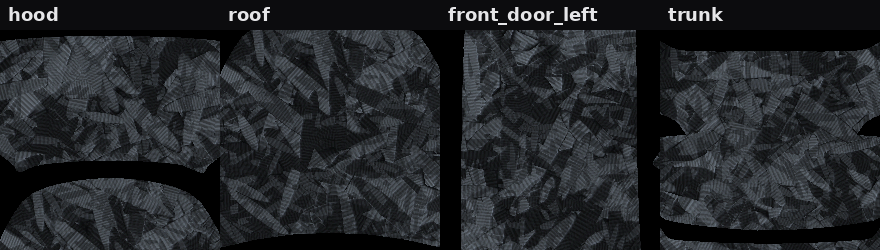
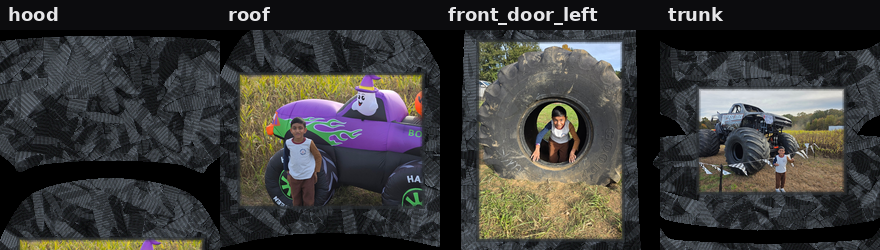
Composite the three supplied photographs into the carbon wrap
Place the tire photo on the left front door, the Halloween inflatable on the roof, and the monster truck on the trunk. The decals use those original files, and the rest of the template stays forged carbon.

diff --git a/designs/modely-2024-forged-carbon/generate_wrap.py b/designs/modely-2024-forged-carbon/generate_wrap.py
@@ -66,15 +66,26 @@ def build_wrap(enable_photos: bool = False, originals: Path | None = None) -> tu
     )
     if status["wrap_contains_photos"] != incorporated:
         raise RuntimeError("photo status does not match the image that was built")
-    coverage = coverage_report(template, rgba, panels)
+    coverage = coverage_report(template, rgba, panels, slots)
     return rgba, status, coverage
 
 
-def coverage_report(template: np.ndarray, rgba: np.ndarray, panels: dict[str, np.ndarray]) -> dict:
+def coverage_report(
+    template: np.ndarray,
+    rgba: np.ndarray,
+    panels: dict[str, np.ndarray],
+    slots: list[dict] | None = None,
+) -> dict:
     paintable = paintable_mask(template)
     rgb = rgba[:, :, :3]
     near_white = (rgb[:, :, 0] >= 250) & (rgb[:, :, 1] >= 250) & (rgb[:, :, 2] >= 250)
-    unfilled = paintable & near_white
+    photo_slots = np.zeros(paintable.shape, dtype=bool)
+    for slot in slots or []:
+        x0, y0, x1, y1 = slot["rect"]
+        photo_slots[y0:y1, x0:x1] = True
+    # Bright pixels inside a decal are part of the photograph. Unfilled means
+    # template white left on the carbon itself.
+    unfilled = paintable & near_white & ~photo_slots
     panel_rows = {}
     for name, mask in panels.items():
         panel_rows[name] = {
@@ -88,6 +99,7 @@ def coverage_report(template: np.ndarray, rgba: np.ndarray, panels: dict[str, np
         "size": [int(template.shape[1]), int(template.shape[0])],
         "paintable_pixels": int(paintable.sum()),
         "unfilled_white_pixels": int(unfilled.sum()),
+        "bright_pixels_inside_photo_slots": int((paintable & near_white & photo_slots).sum()),
         "transparent_pixels_cleared": int((rgba[:, :, 3] == 0).sum()),
         "max_channel": int(rgb.max()),
         "mean_paintable_rgb": [round(float(v), 2) for v in rgb[paintable].mean(axis=0)],
@@ -160,7 +172,13 @@ def _dashed_rect(draw: ImageDraw.ImageDraw, box: tuple[int, int, int, int], colo
     segments(y0, y1, False, x1)
 
 
-def write_previews(rgba: np.ndarray, panels: dict[str, np.ndarray], slots: list[dict], field_u8: np.ndarray) -> None:
+def write_previews(
+    rgba: np.ndarray,
+    panels: dict[str, np.ndarray],
+    slots: list[dict],
+    field_u8: np.ndarray,
+    photos_applied: bool,
+) -> None:
     PREVIEW_DIR.mkdir(parents=True, exist_ok=True)
     paintable = rgba[:, :, 3] > 0
     panel_rgb = np.zeros((rgba.shape[0], rgba.shape[1], 3), dtype=np.uint8)
@@ -179,7 +197,11 @@ def write_previews(rgba: np.ndarray, panels: dict[str, np.ndarray], slots: list[
     coverage = np.full((*paintable.shape, 3), 18, dtype=np.uint8)
     coverage[paintable] = (36, 150, 78)
     near_white = (rgba[:, :, 0] >= 250) & (rgba[:, :, 1] >= 250) & (rgba[:, :, 2] >= 250)
-    coverage[paintable & near_white] = (220, 48, 48)
+    photo_slots = np.zeros(paintable.shape, dtype=bool)
+    for slot in slots:
+        x0, y0, x1, y1 = slot["rect"]
+        photo_slots[y0:y1, x0:x1] = True
+    coverage[paintable & near_white & ~photo_slots] = (220, 48, 48)
     Image.fromarray(coverage, "RGB").save(PREVIEW_DIR / "coverage.png", optimize=True)
 
     crops = []
@@ -218,20 +240,58 @@ def write_previews(rgba: np.ndarray, panels: dict[str, np.ndarray], slots: list[
         x0, y0, x1, y1 = slot["rect"]
         _dashed_rect(draw, (x0, y0, x1, y1), (255, 176, 48))
         draw.text((x0 + 8, y0 + 6), str(index), fill=(255, 196, 80), font=number_font)
-    slot_lines = [
-        ("#Photo slots blocked", None),
-        ("Guides only. The wrap PNG", None),
-        ("does not contain photos.", None),
-        ("", None),
-    ]
+    if photos_applied:
+        slot_lines = [
+            ("#Photo decals", None),
+            ("These are the supplied", None),
+            ("original photographs.", None),
+            ("", None),
+        ]
+        placement_note = "IN THE WRAP"
+    else:
+        slot_lines = [
+            ("#Photo slots blocked", None),
+            ("Guides only. The wrap PNG", None),
+            ("does not contain photos.", None),
+            ("", None),
+        ]
+        placement_note = "ORIGINAL FILE REQUIRED"
     for index, slot in enumerate(slots, start=1):
         slot_lines.append((f"{index}. {slot['panel']}", (255, 176, 48)))
         for chunk in _wrap_text(slot["description"], 32):
             slot_lines.append((chunk, None))
-        slot_lines.append(("ORIGINAL FILE REQUIRED", None))
+        slot_lines.append((placement_note, None))
         slot_lines.append(("", None))
     blocked = _legend_canvas(guide, slot_lines)
-    blocked.save(PREVIEW_DIR / "photo_slots_blocked.png", optimize=True)
+    blocked.save(PREVIEW_DIR / "photo_slots.png", optimize=True)
+    stale_blocked = PREVIEW_DIR / "photo_slots_blocked.png"
+    if photos_applied:
+        if stale_blocked.exists():
+            stale_blocked.unlink()
+    else:
+        blocked.save(stale_blocked, optimize=True)
+
+    details = []
+    labels = []
+    for slot in slots:
+        x0, y0, x1, y1 = slot["rect"]
+        crop = Image.fromarray(rgba[y0:y1, x0:x1, :3], "RGB")
+        crop = crop.resize((crop.width * 3, crop.height * 3), Image.Resampling.NEAREST)
+        details.append(crop)
+        labels.append(slot["id"])
+    if details:
+        gap = 16
+        width = sum(crop.width for crop in details) + gap * (len(details) + 1)
+        height = max(crop.height for crop in details) + 48
+        sheet = Image.new("RGB", (width, height), (12, 12, 14))
+        draw = ImageDraw.Draw(sheet)
+        font = _font(18, bold=True)
+        x = gap
+        for crop, label in zip(details, labels):
+            sheet.paste(crop, (x, 36))
+            draw.text((x, 8), label, fill=(230, 230, 232), font=font)
+            x += crop.width + gap
+        sheet.save(PREVIEW_DIR / "photo_details.png", optimize=True)
 
 
 def _wrap_text(text: str, limit: int) -> list[str]:
@@ -253,14 +313,20 @@ def _wrap_text(text: str, limit: int) -> list[str]:
 def main(argv: list[str] | None = None) -> int:
     parser = argparse.ArgumentParser(description="Generate the 2024 Model Y forged-carbon wrap.")
     parser.add_argument(
+        "--carbon-only",
+        action="store_true",
+        help="Leave the three photographs out of the wrap.",
+    )
+    parser.add_argument(
         "--with-photos",
         action="store_true",
-        help="Composite originals from photos/originals/. Exits 2 when those files are not usable.",
+        help="Composite originals from photos/originals/. This is the default.",
     )
     parser.add_argument("--out", type=Path, default=EXAMPLE_PATH)
     args = parser.parse_args(argv)
+    enable_photos = not args.carbon_only
 
-    rgba, status, coverage = build_wrap(enable_photos=args.with_photos)
+    rgba, status, coverage = build_wrap(enable_photos=enable_photos)
     size = save_png(args.out, rgba)
     coverage["output"] = str(args.out.relative_to(REPO_ROOT) if args.out.is_relative_to(REPO_ROOT) else args.out)
     coverage["file_bytes"] = size
@@ -276,7 +342,7 @@ def main(argv: list[str] | None = None) -> int:
     panels = classify_panels(template)
     # Rebuild the carbon field for the seamless preview. Photo pixels, if any, stay out of that tile.
     field = render_u8(template.shape[0])
-    write_previews(rgba, panels, status["slots"], field)
+    write_previews(rgba, panels, status["slots"], field, photos_applied=status["wrap_contains_photos"])
 
     print(f"wrote {args.out} ({size} bytes)")
     print(f"photo_incorporation={status['photo_incorporation']} contains_photos={status['wrap_contains_photos']}")
@@ -284,7 +350,7 @@ def main(argv: list[str] | None = None) -> int:
     if size > MAX_BYTES:
         print(f"file exceeds {MAX_BYTES} bytes", file=sys.stderr)
         return 1
-    if args.with_photos and not status["wrap_contains_photos"]:
+    if enable_photos and not status["wrap_contains_photos"]:
         print(status["reason"], file=sys.stderr)
         for item in status["missing"]:
             print(f"missing: {item}", file=sys.stderr)

diff --git a/designs/modely-2024-forged-carbon/photos.py b/designs/modely-2024-forged-carbon/photos.py
@@ -30,21 +30,27 @@ PHOTO_SPECS = (
         "filename_stem": "child_giant_tire",
         "description": "Original photo of the child in a giant tire",
         "panel": "front_door_left",
-        "aspect_h_over_w": 1.28,
+        "aspect_h_over_w": 1.33,
+        # Portrait photo, child centered in the tire.
+        "focal": (0.50, 0.47),
     },
     {
         "id": "child_halloween_truck",
         "filename_stem": "child_halloween_truck",
         "description": "Original photo of the child beside the purple Halloween inflatable truck",
-        "panel": "front_door_right",
-        "aspect_h_over_w": 1.28,
+        "panel": "roof",
+        "aspect_h_over_w": 0.75,
+        # Landscape photo. The roof island keeps the child and the inflatable in frame.
+        "focal": (0.46, 0.58),
     },
     {
         "id": "child_monster_truck",
         "filename_stem": "child_monster_truck",
         "description": "Original photo of the child beside the real monster truck",
         "panel": "trunk",
-        "aspect_h_over_w": 0.68,
+        "aspect_h_over_w": 0.75,
+        # Child stands low in the frame, so the crop favors the lower half.
+        "focal": (0.58, 0.66),
     },
 )
 
@@ -157,20 +163,23 @@ def build_slots(panel_masks: dict[str, np.ndarray], solid: np.ndarray) -> list[d
                 "panel": spec["panel"],
                 "aspect_h_over_w": spec["aspect_h_over_w"],
                 "rect": [int(x0), int(y0), int(x1), int(y1)],
+                "focal": [float(v) for v in spec["focal"]],
             }
         )
     return slots
 
 
-def cover_crop(image: Image.Image, width: int, height: int) -> np.ndarray:
+def cover_crop(image: Image.Image, width: int, height: int, focal: tuple[float, float] = (0.5, 0.5)) -> np.ndarray:
+    """Scale to cover the slot and keep `focal` (0..1 in the source) inside the window."""
     source_w, source_h = image.size
     scale = max(width / source_w, height / source_h)
-    resized = image.resize(
-        (max(width, int(round(source_w * scale))), max(height, int(round(source_h * scale)))),
-        Image.Resampling.LANCZOS,
-    )
-    left = (resized.size[0] - width) // 2
-    top = (resized.size[1] - height) // 2
+    resized_w = max(width, int(round(source_w * scale)))
+    resized_h = max(height, int(round(source_h * scale)))
+    resized = image.resize((resized_w, resized_h), Image.Resampling.LANCZOS)
+    left = int(round(float(focal[0]) * resized_w - width / 2))
+    top = int(round(float(focal[1]) * resized_h - height / 2))
+    left = min(max(left, 0), resized_w - width)
+    top = min(max(top, 0), resized_h - height)
     cropped = resized.crop((left, top, left + width, top + height))
     return np.asarray(cropped, dtype=np.uint8)
 
@@ -195,7 +204,8 @@ def composite_photos(
         x0, y0, x1, y1 = slot["rect"]
         width = x1 - x0
         height = y1 - y0
-        cropped = cover_crop(photo, width, height).astype(np.float32)
+        focal = slot.get("focal", (0.5, 0.5))
+        cropped = cover_crop(photo, width, height, (float(focal[0]), float(focal[1]))).astype(np.float32)
         alpha = _slot_alpha(height, width)[..., None]
         base = painted[y0:y1, x0:x1].astype(np.float32)
         blended = cropped * alpha + base * (1.0 - alpha)

diff --git a/designs/modely-2024-forged-carbon/test_wrap.py b/designs/modely-2024-forged-carbon/test_wrap.py
@@ -112,19 +112,27 @@ class WrapTests(unittest.TestCase):
             reloaded = np.array(Image.open(path))
             self.assertEqual(reloaded.shape, (1024, 1024, 4))
 
-    def test_repository_has_no_matching_originals(self):
-        rgba, status, _coverage = build_wrap(enable_photos=False)
-        self.assertEqual(status["photo_incorporation"], "blocked")
-        self.assertFalse(status["wrap_contains_photos"])
-        self.assertEqual(status["repository_exact_matches"], [])
-        self.assertEqual(status["repository_loose_name_matches"], [])
-        self.assertEqual(status["missing"], [spec["id"] for spec in __import__("photos").PHOTO_SPECS])
-        self.assertTrue(np.array_equal(rgba[:, :, :3], self.rgba[:, :, :3]))
-
-    def test_committed_example_is_carbon_only(self):
+    def test_supplied_originals_are_in_the_wrap(self):
+        rgba, status, _coverage = build_wrap(enable_photos=True)
+        self.assertEqual(status["photo_incorporation"], "incorporated")
+        self.assertTrue(status["wrap_contains_photos"])
+        self.assertEqual(status["missing"], [])
+        self.assertEqual(status["invalid"], [])
+        stems = {Path(path).stem for path in status["repository_exact_matches"]}
+        self.assertEqual(
+            stems,
+            {"child_giant_tire", "child_halloween_truck", "child_monster_truck"},
+        )
+        changed = np.any(rgba[:, :, :3] != self.rgba[:, :, :3], axis=2)
+        slot_union = np.zeros(changed.shape, dtype=bool)
+        for slot in status["slots"]:
+            x0, y0, x1, y1 = slot["rect"]
+            slot_union[y0:y1, x0:x1] = True
+            self.assertTrue(bool(changed[y0 + 8 : y1 - 8, x0 + 8 : x1 - 8].all()), slot["id"])
+        self.assertFalse(bool(changed[~slot_union].any()))
         self.assertTrue(EXAMPLE_PATH.is_file(), "run generate_wrap.py before the tests")
         committed = np.array(Image.open(EXAMPLE_PATH))
-        self.assertTrue(np.array_equal(committed, self.rgba))
+        self.assertTrue(np.array_equal(committed, rgba))
         self.assertLessEqual(EXAMPLE_PATH.stat().st_size, MAX_BYTES)
 
     def test_missing_and_partial_photos_do_not_composite(self):

diff --git a/designs/modely-2024-forged-carbon/README.md b/designs/modely-2024-forged-carbon/README.md
@@ -18,25 +18,19 @@ The field repeats across the texture edges. Hood, roof, trunk, and doors therefo
 
 Paint Shop limits followed here: PNG, 1024×1024, at most 1 MB, filename `Forged_Carbon.png`.
 
-## Photos are not in the wrap
+## Photographs in the wrap
 
-Three personal photographs were requested as decals:
+`modely/example/Forged_Carbon.png` composites the three supplied original files. Nothing is synthesized.
 
-1. Child in a giant tire — front door, image left
-2. Child beside the purple Halloween inflatable truck — front door, image right
-3. Child beside the real monster truck — trunk
+| Original | Placement | Why this island |
+| --- | --- | --- |
+| `photos/originals/child_giant_tire.jpg` | Front door, image left | Portrait photo, child centered in the tire |
+| `photos/originals/child_halloween_truck.jpg` | Roof | Landscape photo; this island keeps the child and the purple inflatable together |
+| `photos/originals/child_monster_truck.jpg` | Trunk | Landscape photo; the child stays in the lower part of the frame |
 
-Those files were not on disk. The attachment paths supplied with the request were missing, and no image in this repository matches those filenames or subjects. The generator does not draw a face, a child, a tire scene, or a truck scene. `modely/example/Forged_Carbon.png` is carbon only.
+Each decal is inset inside its panel, cover-cropped around that subject, and edged with a dark gunmetal frame so the carbon remains the ground. The Paint Shop UV is 1024×1024, so the decals are small on the template. `previews/photo_details.png` shows those slots enlarged. `photos/STATUS.json` records each file's sha256.
 
-`photos/STATUS.json` records the blocker. `previews/photo_slots_blocked.png` shows where the decals would sit. The dashed boxes are only on that preview.
-
-To add the real photographs later, put the originals in `photos/originals/` using the names in that folder's README, then run:
-
-```bash
-python3 designs/modely-2024-forged-carbon/generate_wrap.py --with-photos
-```
-
-The command exits 2 and leaves the wrap carbon-only when any original is missing, too small, or not a decodable image. A partial set is not composited.
+`--carbon-only` rebuilds the wrap without the decals. If an original is missing or fails validation, the generator does not fill the gap with a drawn person; it leaves the carbon in place and exits 2.
 
 ## Regenerate
 

diff --git a/designs/modely-2024-forged-carbon/photos/originals/README.md b/designs/modely-2024-forged-carbon/photos/originals/README.md
@@ -1,8 +1,7 @@
 # Original photographs
 
-Photo decals stay out of the wrap until these three files are in this directory.
-Do not add a generated, traced, or recreated picture of the child. The generator
-will not invent one.
+These three files are the photographs supplied for the wrap. The generator
+pastes these bytes into the decal slots. It does not redraw the child.
 
 | File stem | Photograph |
 | --- | --- |
@@ -13,10 +12,10 @@ will not invent one.
 Accepted extensions: `.png`, `.jpg`, `.jpeg`, `.webp`.
 
 Each file needs a long side of at least 640 pixels and a short side of at least 480 pixels.
-Use the original image bytes. After the files are in place:
+Use the original image bytes. Rebuild with:
 
 ```bash
-python3 designs/modely-2024-forged-carbon/generate_wrap.py --with-photos
+python3 designs/modely-2024-forged-carbon/generate_wrap.py
 ```
 
-Without `--with-photos`, a present file is reported and still left out of the PNG.
+`--carbon-only` leaves these files out of the PNG.
